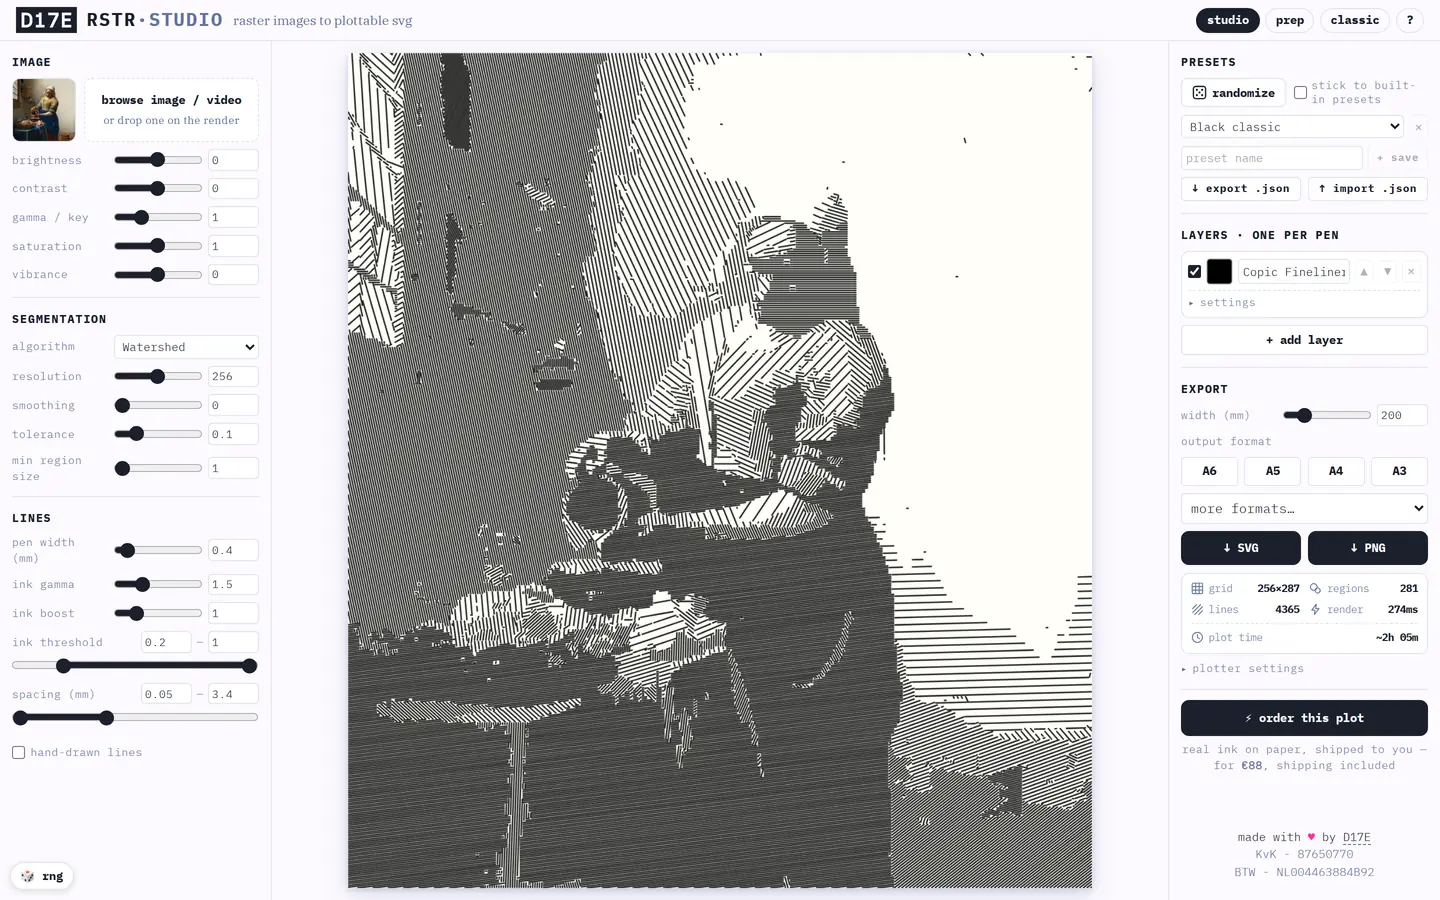
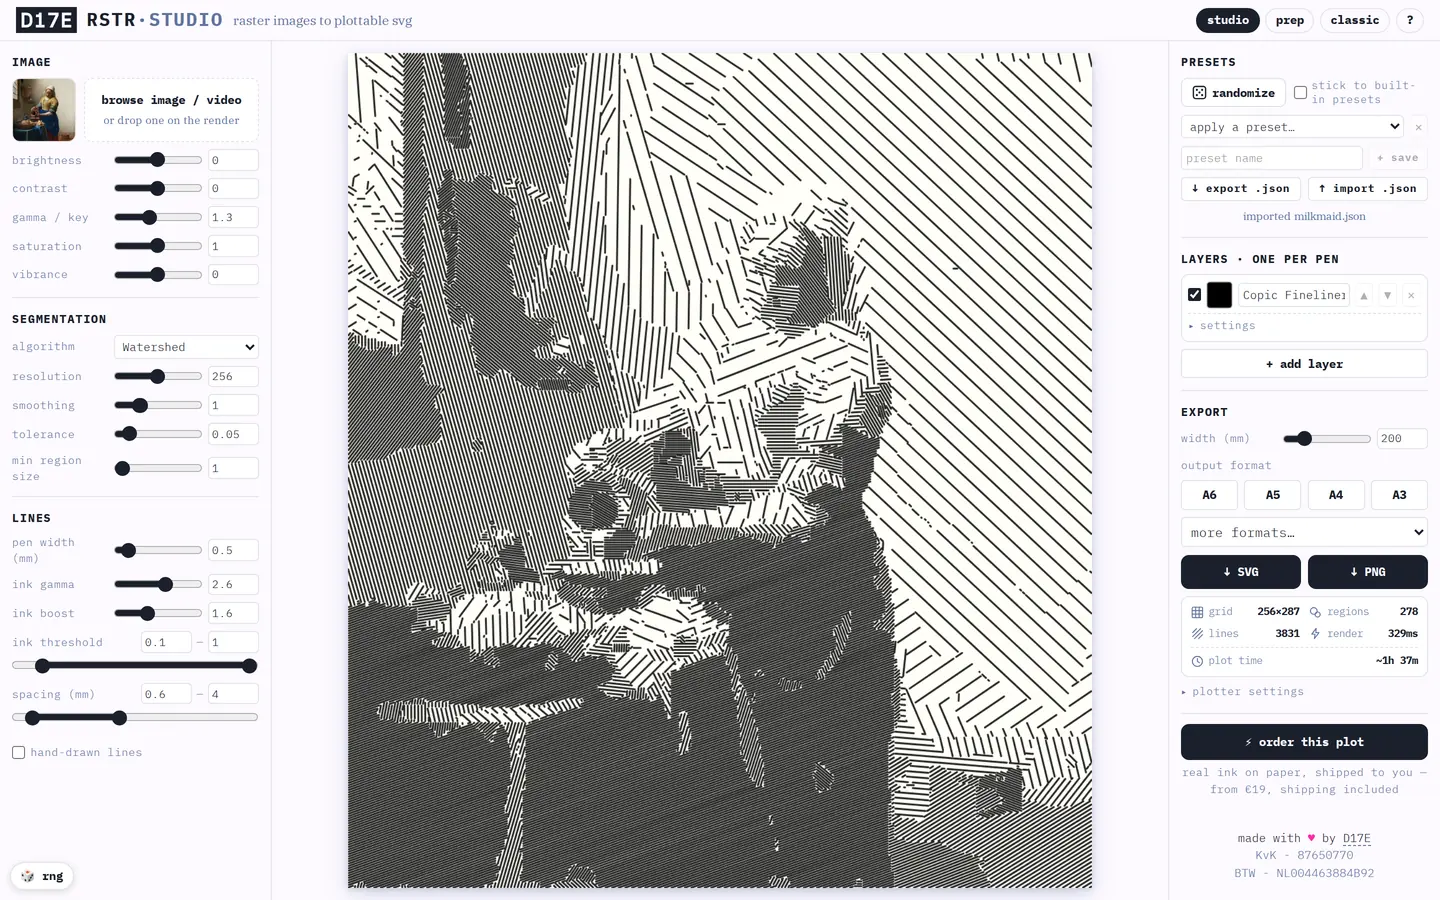
Landing: studio screenshot that matches the stats, bigger controls
- Re-shoot the studio screenshot from the exact frame and settings the
  stage images were rendered with, so its stats panel reads 278
  regions, 3,831 lines and ~1h 37m, the same as HOW_STATS.
- Slideshow buttons grow to 40px (46px for pause/play) tap targets.
- The slide focus ring moves to a layer above the zoomed picture,
  which covered the inset outline.
- reveal jumps straight to its hidden state instead of letting a
  transition play the entrance backwards first.

Claude-Session: https://claude.ai/code/session_01RfpFg9qeFQobAHU4z9vUE9

diff --git a/src/lib/landing/HeroCarousel.svelte b/src/lib/landing/HeroCarousel.svelte
@@ -221,9 +221,24 @@
 		opacity: 1;
 	}
 
+	/* the focus ring sits on a layer above the zoomed picture, which would
+	   cover an inset outline */
+	.hc-slide::after {
+		content: '';
+		position: absolute;
+		inset: 0;
+		z-index: 1;
+		box-shadow: inset 0 0 0 3px var(--accent);
+		opacity: 0;
+		pointer-events: none;
+	}
+
 	.hc-slide:focus-visible {
-		outline: 3px solid var(--accent);
-		outline-offset: -3px;
+		outline: none;
+	}
+
+	.hc-slide:focus-visible::after {
+		opacity: 1;
 	}
 
 	.hc-slide img {
@@ -272,8 +287,9 @@
 		display: inline-flex;
 		align-items: center;
 		justify-content: center;
-		width: 2.1rem;
-		height: 2.1rem;
+		/* 40px: a comfortable tap target */
+		width: 2.5rem;
+		height: 2.5rem;
 		padding: 0;
 		border: 1px solid var(--btn-border);
 		border-radius: 999px;
@@ -313,8 +329,8 @@
 	}
 
 	.hc-play {
-		width: 2.5rem;
-		height: 2.5rem;
+		width: 2.875rem;
+		height: 2.875rem;
 	}
 
 	/* progress ring around the pause button: fills over one slide and

diff --git a/src/lib/landing/how.ts b/src/lib/landing/how.ts
@@ -90,11 +90,14 @@ export const HOW_PLOT_ON_MACHINE = {
 	name: 'melkmeisje-2'
 };
 
-/** the studio with the Milkmaid loaded and the "Black classic" preset */
+/**
+ * The studio with the Milkmaid loaded and the same settings as the stage
+ * renders, so its stats panel shows exactly the HOW_STATS numbers.
+ */
 export const HOW_STUDIO = {
 	src: '/how/studio-720w.webp',
 	srcset: '/how/studio-720w.webp 720w, /how/studio-1440w.webp 1440w',
-	alt: 'the RSTR studio: image and line settings on the left, the hatched Milkmaid in the middle, pens, export buttons and the plot time estimate on the right',
+	alt: 'the RSTR studio: image and line settings on the left, the hatched Milkmaid in the middle, the pen, export buttons and the stats on the right: 278 regions, 3,831 lines, about 1h 37m of plotting',
 	width: 1440,
 	height: 900
 };

diff --git a/src/lib/landing/reveal.ts b/src/lib/landing/reveal.ts
@@ -11,7 +11,12 @@ export const reveal: Action<HTMLElement, { margin?: string } | undefined> = (nod
 	const rect = node.getBoundingClientRect();
 	if (rect.top < window.innerHeight && rect.bottom > 0) return;
 
+	// jump straight to the hidden state: a transition on the element would
+	// otherwise play the entrance backwards first
+	node.style.transition = 'none';
 	node.dataset.reveal = 'out';
+	void node.offsetWidth;
+	node.style.transition = '';
 	const io = new IntersectionObserver(
 		(entries) => {
 			if (!entries.some((entry) => entry.isIntersecting)) return;
